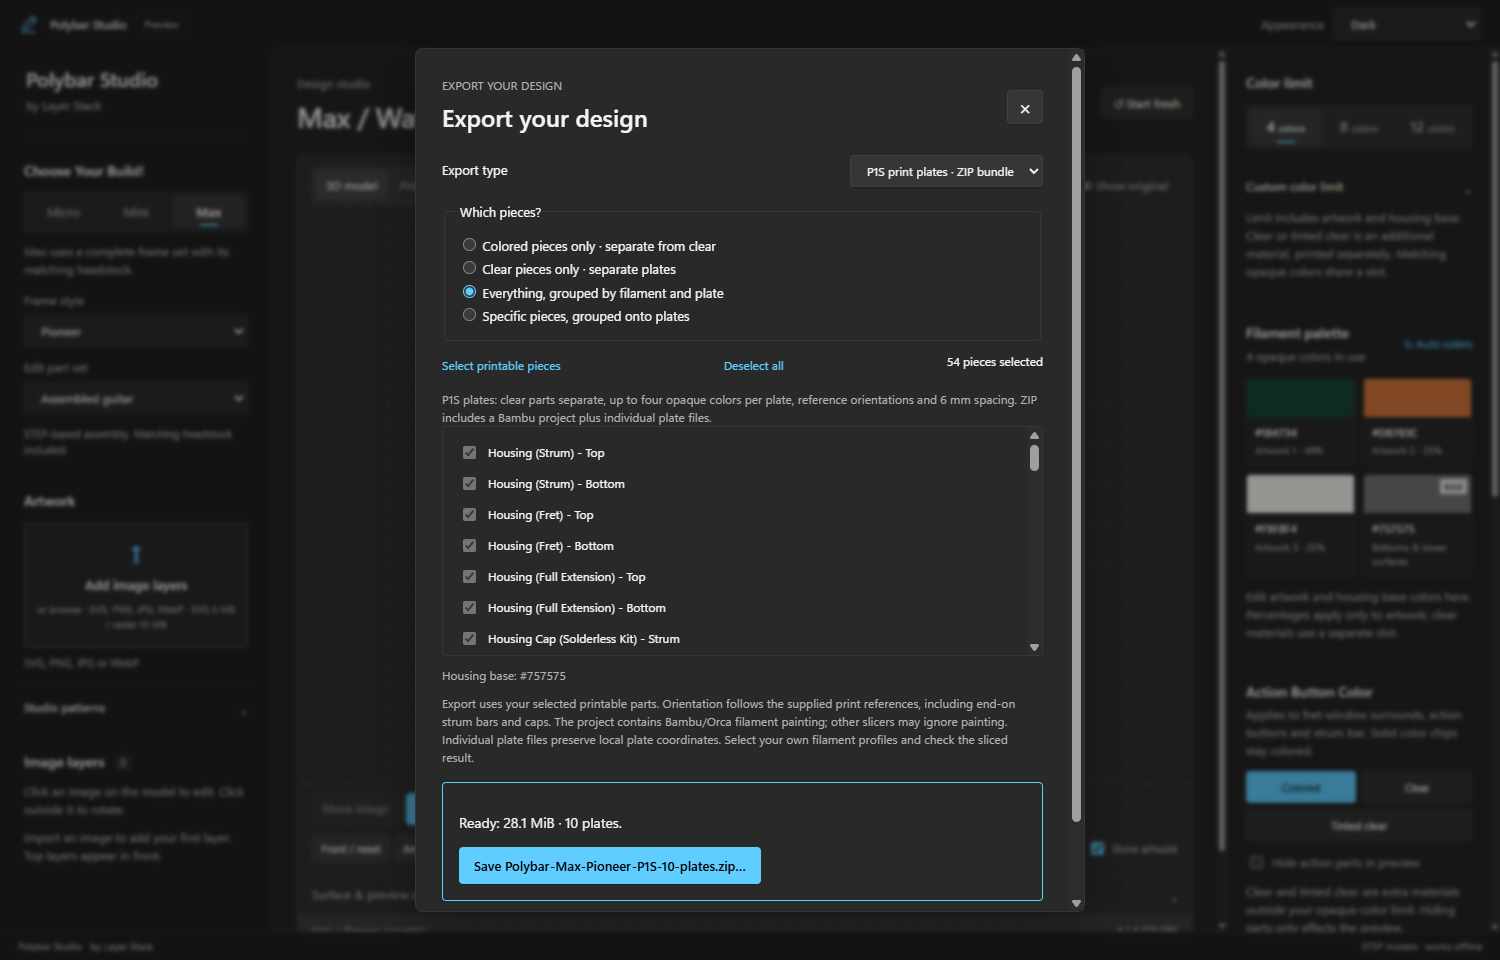
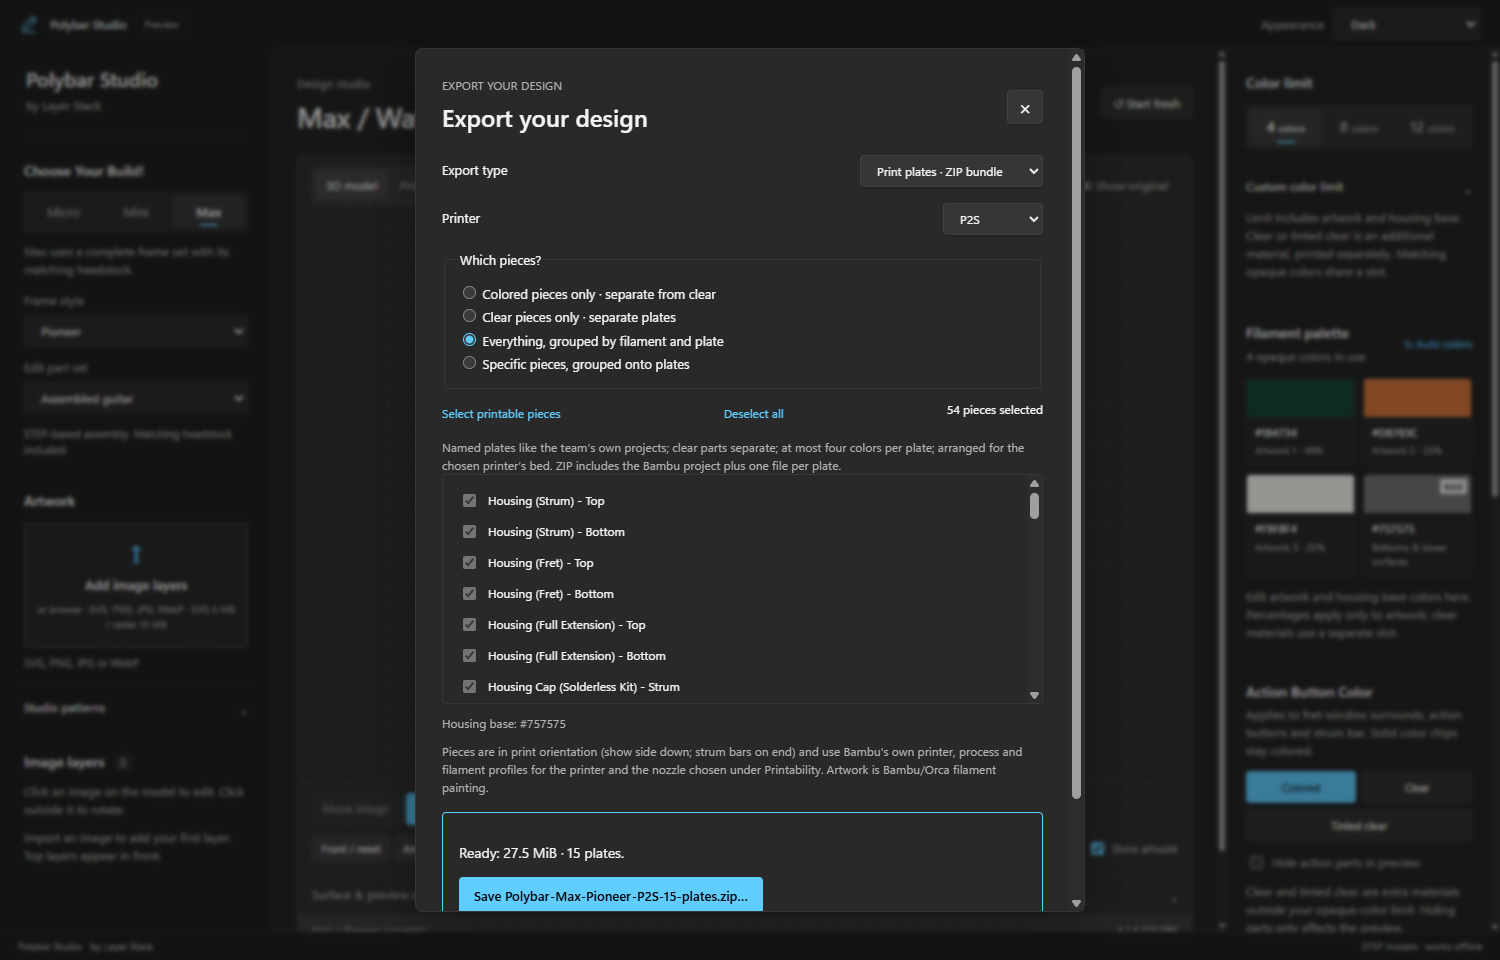
0.3.1: guide for printers, named plates, recolor dot, Mini headstock; new screenshots

Changed region(s): [[0.276, 0.2188, 0.7053, 0.9688], [0.5827, 0.1562, 0.6747, 0.1875], [0.6747, 0.4688, 0.7053, 0.5312]]

diff --git a/README.md b/README.md
@@ -1,8 +1,8 @@
 # Polybar Studio
 
-Paint your Polybar Micro, Mini or Max, then get print-ready plates for a Bambu P1S.
+Paint your Polybar Micro, Mini or Max, then get a print-ready Bambu Studio project for your Bambu Lab printer.
 
-[![Download for Windows](https://img.shields.io/badge/Download_for_Windows-Polybar_Studio_0.3.0-0078D4?style=for-the-badge&logo=windows)](https://github.com/3D-Printed-Controller-Systems/Polybar-Studio-Release/releases/latest/download/Polybar-Studio-Windows.exe)
+[![Download for Windows](https://img.shields.io/badge/Download_for_Windows-Polybar_Studio_0.3.1-0078D4?style=for-the-badge&logo=windows)](https://github.com/3D-Printed-Controller-Systems/Polybar-Studio-Release/releases/latest/download/Polybar-Studio-Windows.exe)
 
 Windows 10 or 11, 64-bit · about 50 MB · works offline · [all releases](https://github.com/3D-Printed-Controller-Systems/Polybar-Studio-Release/releases)
 
@@ -31,7 +31,7 @@ Under **Choose Your Build!**, pick **Micro**, **Mini** or **Max**.
 
 - **Micro** has no frame.
 - **Mini** and **Max** have a **Frame style** list (Airbourne, Diablo, Maverick, Nomad, Offset, Pioneer, Renegade, Vampire, Wizard; Max also has the older Enforcer). Choose **No frame** for the bare controller.
-- **Max** frames come with their matching headstock.
+- **Max** frames come with their matching headstock. On a **Mini** with a frame, tick **Add the matching Max headstock** if you want one (it's sized for the Max, so it's off by default).
 - **Edit part set** switches the preview between the assembled guitar, the frame only, and (Max) the headstock.
 
 Drag in the preview to rotate, scroll to zoom, right-drag to pan. **Front / reset**, **Angled** and **Back** jump to a view.
@@ -41,6 +41,7 @@ Drag in the preview to rotate, scroll to zoom, right-drag to pan. **Front / rese
 - Drop images onto **Add image layers**, or click it to browse. SVG (up to 5 MB), PNG, JPG and WebP (up to 15 MB) work; you can stack up to 12 layers.
 - Click an image on the model to select it, then drag it into place. **Size** and **Rotation** sliders, **Center** and **Fit image** are under **Image layers**; **Done** finishes editing. Click outside the image to go back to rotating the model.
 - **Image background › Remove background** takes out a solid background around a logo. Raise **Tolerance** if some background stays.
+- A one-color image (a typical logo) gets a small **color dot** in its row under **Image layers**: click it to recolor the whole image.
 - No image? Open **Studio patterns** for Waves, Checkers, Voltage or Orbit. **Keep pattern behind image layers** puts a pattern under your images.
 
 ### 3. Pick your colors
@@ -54,7 +55,7 @@ Drag in the preview to rotate, scroll to zoom, right-drag to pan. **Front / rese
 Choose how the five fret windows, two action buttons and the strum bar are printed:
 
 - **Colored:** painted with the artwork like everything else.
-- **Clear** or **Tinted clear:** printed in clear filament. This is an extra material on top of your color limit, and the fret color chips stay colored.
+- **Clear** or **Tinted clear:** the windows, stop plates, action buttons and strum bar print in clear PETG (PETG Translucent). This is an extra material on top of your color limit, and the fret color chips stay colored.
 
 <picture>
   <source media="(prefers-color-scheme: dark)" srcset=".github/assets/clear-dark.png">
@@ -78,7 +79,8 @@ Choose how the five fret windows, two action buttons and the strum bar are print
 
 Click **Export print plates**.
 
-- **Export type:** *P1S print plates · ZIP bundle* (the whole guitar) or a *60 × 32 mm color test tile* (a quick way to check your colors first).
+- **Export type:** *Print plates · ZIP bundle* (the whole guitar) or a *60 × 32 mm color test tile* (a quick way to check your colors first).
+- **Printer:** every Bambu Lab printer (A1, A1 mini, A2L, H2C, H2D, H2D Pro, H2S, P1P, P1S, P2S, X1, X1 Carbon, X1E, X2D). The project uses Bambu's own profiles for that printer and the nozzle chosen under Printability. If a piece is too big for the printer (a Micro housing on an A1 mini), the export says so.
 - **Which pieces?** Everything, only the colored pieces, only the clear pieces, or pieces you tick yourself.
 - Click **Prepare export**, wait for **Ready**, then **Save…** and choose where to put it.
 
@@ -93,7 +95,7 @@ Click **Export print plates**.
 
 Unzip the bundle. It contains:
 
-- `Polybar-Bambu-P1S.3mf`: open this in **Bambu Studio** as a project. Every piece is already turned the way it prints (show side down on the textured plate) and grouped onto plates, with clear pieces on their own plates and at most four colors per plate.
+- `Polybar-<printer>.3mf` (for example `Polybar-P2S.3mf`): open this in **Bambu Studio**. It's a complete project: plates are named (Housing Shells - Top, Transparent Input Parts, Assembly Parts, one plate per frame wing and faceplate…) and arranged, matching parts are grouped (the five windows are one object), every piece is turned the way it prints (show side down on the textured plate), clear pieces are on their own plates, and each plate uses at most four colors with its prime-tower corner kept free. Press **A** (Arrange) if you want Bambu to re-arrange a plate.
 - `Individual-plates/`: one file per plate, for OrcaSlicer, PrusaSlicer or printing one plate at a time.
 - `Plate-manifest.json` and `README.txt`: what's on each plate.
 
@@ -103,10 +105,12 @@ In the slicer, pick your actual filament profiles, check that each color goes to
 
 - **Designs aren't saved** between sessions. Export (or save the PNG) before closing the app.
 - **Enforcer** can be previewed and painted, but can't be exported as print plates yet.
-- Imports into Bambu Studio, OrcaSlicer and PrusaSlicer haven't been fully tested yet. Please report anything that comes in wrong (wrong color, a piece upside down, a piece off the plate).
+- Exports have been sliced with Bambu Studio's command line (all plates, painted colors intact). Please report anything that looks wrong when you open one (a wrong color, a piece upside down, an odd layout).
 
 ## Releases
 
 Each release lists the installer's SHA-256 and the [Development](https://github.com/3D-Printed-Controller-Systems/Polybar-Studio-Development) commit it was built from.
+
+**0.3.1**: exports open and slice in Bambu Studio (0.3.0's crashed it); choose any Bambu Lab printer; named, arranged plates like the team's own projects; clear stop plates; color dot to recolor one-color images; optional Max headstock on a Mini; the 3D model now follows palette color changes.
 
 **0.3.0** (first Windows release): the desktop app, rebuilt from the earlier browser preview. Installer about 50 MB.
